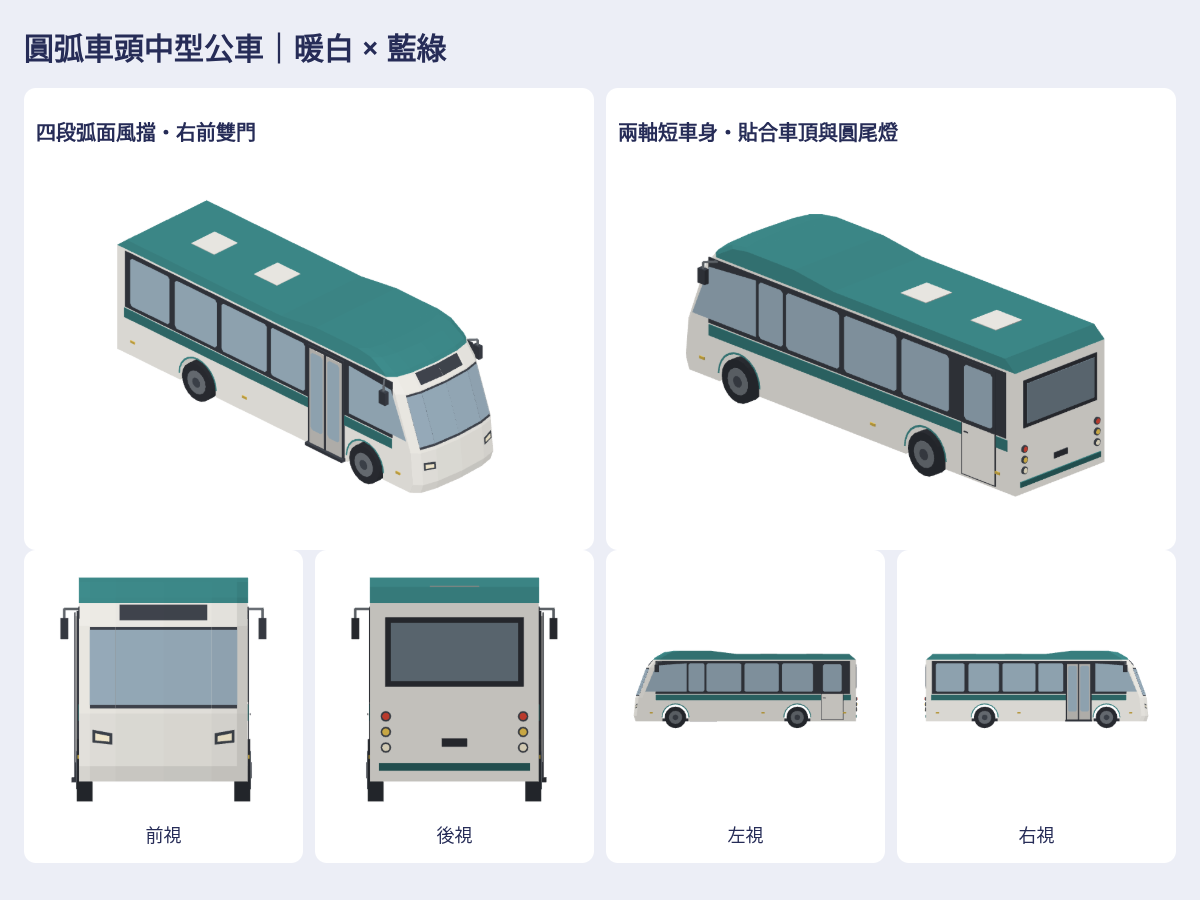
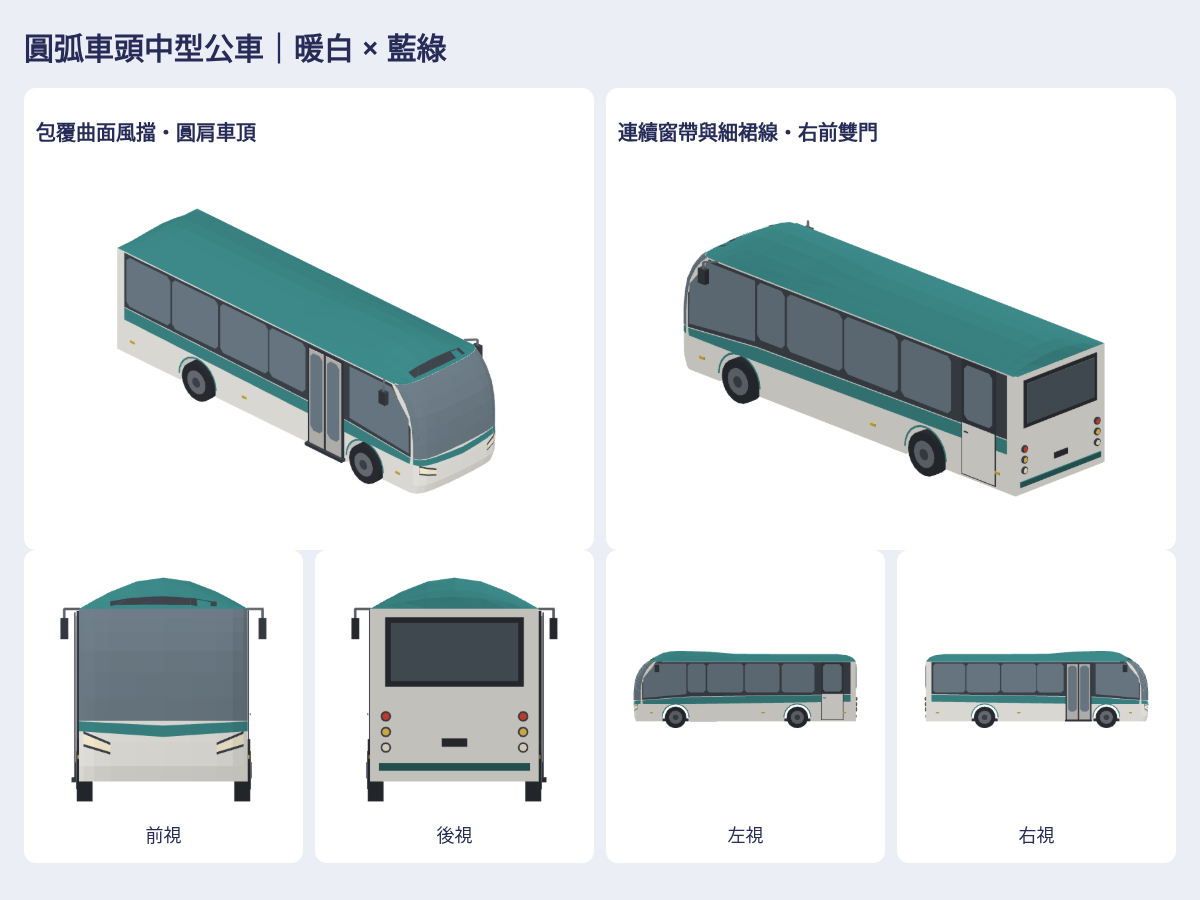
Refine midibus roof and wraparound glazing for a flowing silhouette
Round the crown shoulders, curve the screen in height and plan, slim the window ribbon and swept lights, and keep same-angle native previews for comparison. Verify backing and outward ribbon faces; preserve all four comparison models and traffic rules.

Agent: Codex

diff --git a/Sources/GamePresentation/Map3DMidiBus.swift b/Sources/GamePresentation/Map3DMidiBus.swift
@@ -9,6 +9,7 @@ public enum Map3DMidiBus {
     public static let height: Float = 3.16
     public static let bodyColor = Map3DPalette.shopAwnings[3]
     public static let accentColor = Map3DPalette.shopAwnings[0]
+    public static let windowColor = Map3DColor.shaded(Map3DPalette.glazing,0.72)
     public static func model() -> Map3DModelPack.Model {
         var b=StationKitBuilder();b.midiBus()
         return .flat(named:modelName,from:b.mesh)
@@ -28,18 +29,18 @@ extension StationKitBuilder {
             }
             contour.append(Map3DPoint(axle+0.53,0.28,0))
         }
-        let front: [(Float,Float)]=[(4.20,0.28),(4.28,0.50),(4.21,1.24),(3.75,2.48),(3.486,2.80),(3.42,2.88),(3.04,3.10),(2.65,3.16)]
-        contour += front.prefix(5).map { Map3DPoint($0.0,$0.1,0) }
-        contour.append(Map3DPoint(-4.52,2.80,0))
+        // Several short profile segments turn the upright lower screen
+        // progressively into the roof. The old single rake looked boxy.
+        let front: [(Float,Float)]=[(4.20,0.28),(4.28,0.50),(4.29,0.84),(4.28,1.14),(4.28,1.48),(4.25,1.82),(4.18,2.12),(4.04,2.39),(3.87,2.60),(3.72,2.72)]
+        contour += front.map { Map3DPoint($0.0,$0.1,0) }
+        contour.append(Map3DPoint(-4.52,2.72,0))
         shuttleShell(contour,halfWidth:1.19,color:white)
-        // Closed faceted nose: the central bow projects 29 cm beyond the
-        // side contour. Seven sections round the corners in plan as well
-        // as in profile, instead of merely painting a square bus front.
-        let sections: [(Float,Float)]=[(-1.19,0),(-1.04,0.16),(-0.68,0.25),(0,0.29),(0.68,0.25),(1.04,0.16),(1.19,0)]
+        // A continuous bowed nose and ten plan facets soften the corners.
+        let sections: [(Float,Float)]=[(-1.19,0),(-1.13,0.12),(-0.98,0.21),(-0.75,0.25),(-0.38,0.273),(0,0.28),(0.38,0.273),(0.75,0.25),(0.98,0.21),(1.13,0.12),(1.19,0)]
         for i in 0..<front.count-1 { for j in 0..<sections.count-1 {
             let a=front[i],b=front[i+1],c=sections[j],d=sections[j+1]
             let n=Map3DPoint(b.1-a.1,a.0-b.0,0)
-            shuttlePanel([Map3DPoint(a.0+c.1,a.1,c.0),Map3DPoint(a.0+d.1,a.1,d.0),Map3DPoint(b.0+d.1,b.1,d.0),Map3DPoint(b.0+c.1,b.1,c.0)],normal:n,color:i>=4 ? teal : white)
+            shuttlePanel([Map3DPoint(a.0+c.1,a.1,c.0),Map3DPoint(a.0+d.1,a.1,d.0),Map3DPoint(b.0+d.1,b.1,d.0),Map3DPoint(b.0+c.1,b.1,c.0)],normal:n,color:white)
         } }
         for k in [0,front.count-1] { let p=front[k]
             for j in 0..<sections.count-1 { let a=sections[j],b=sections[j+1]
@@ -47,11 +48,29 @@ extension StationKitBuilder {
                 if a.1>0 { cap.append(Map3DPoint(p.0+a.1,p.1,a.0)) }
                 if b.1>0 { cap.append(Map3DPoint(p.0+b.1,p.1,b.0)) }
                 cap.append(Map3DPoint(p.0,p.1,b.0))
-                shuttlePanel(cap,normal:Map3DPoint(0,k==0 ? -1 : 1,0),color:k==0 ? white : teal)
+                shuttlePanel(cap,normal:Map3DPoint(0,k==0 ? -1 : 1,0),color:white)
             }
         }
-        // Raised forehead is an integral closed roof, not a floating box.
-        shuttleShell([Map3DPoint(-4.52,2.80,0),Map3DPoint(3.486,2.80,0),Map3DPoint(3.42,2.88,0),Map3DPoint(3.04,3.10,0),Map3DPoint(2.65,3.16,0),Map3DPoint(1.40,3.16,0),Map3DPoint(0.35,3.03,0),Map3DPoint(-4.24,3.03,0)],halfWidth:1.194,color:teal)
+        // A closed longitudinal loft with a rounded transverse shoulder.
+        // Side edges meet the body at 2.72m; there is no full-width flat
+        // roof slab, and no overlapping differently coloured top faces.
+        let roof: [(Float,Float)]=[(-4.52,2.72),(-4.38,2.89),(-4.12,2.99),(-3.70,3.03),(-1.0,3.03),(0.45,3.04),(1.40,3.13),(2.42,3.16),(2.80,3.14),(3.12,3.07),(3.40,2.92),(3.72,2.72)]
+        func roofNode(_ row: Int,_ column: Int) -> Map3DPoint {
+            let p=roof[row],s=sections[column],u=abs(s.0)/1.19
+            let bow=max(0,min(1,(p.0-0.45)/1.95))
+            return Map3DPoint(p.0+s.1*bow,2.72+(p.1-2.72)*cosf(u*Float.pi/2),s.0)
+        }
+        for i in 0..<roof.count-1 { for j in 0..<sections.count-1 {
+            shuttlePanel([roofNode(i,j),roofNode(i+1,j),roofNode(i+1,j+1),roofNode(i,j+1)],normal:Map3DPoint(0,1,0),color:teal)
+        } }
+        let floor=[Map3DPoint(-4.52,2.72,-1.19),Map3DPoint(-4.52,2.72,1.19)]+sections.reversed().map { Map3DPoint(3.72+$0.1,2.72,$0.0) }
+        // The bottom has a convex bowed front and is hidden inside the
+        // body, nevertheless it is capped for the underside view.
+        shuttlePanel(floor,normal:Map3DPoint(0,-1,0),color:teal)
+        func window(_ x: Float,_ y: Float,_ z: Float,_ width: Float,_ height: Float) -> [Map3DPoint] {
+            let r: Float=0.09,a=x-width/2,b=x+width/2
+            return [Map3DPoint(a+r,y,z),Map3DPoint(b-r,y,z),Map3DPoint(b,y+r,z),Map3DPoint(b,y+height-r,z),Map3DPoint(b-r,y+height,z),Map3DPoint(a+r,y+height,z),Map3DPoint(a,y+height-r,z),Map3DPoint(a,y+r,z)]
+        }
         box(-0.10,0.28,0,8.18,1.68,0.12,trim)
         for axle: Float in [-2.12,2.86] { for side: Float in [-1,1] {
             civicTube(Map3DPoint(axle,0.44,side*1.00),Map3DPoint(axle,0.44,side*1.225),radius:0.44,color:Map3DStreetModel.tyre,sides:20)
@@ -62,14 +81,18 @@ extension StationKitBuilder {
             }
         } }
         for side: Float in [-1,1] {
-            box(-0.30,1.40,side*1.195,7.95,0.018,1.35,trim)
-            box(-0.32,1.14,side*1.195,7.98,0.018,0.23,teal)
-            let windows: [(Float,Float)]=side>0 ? [(-3.53,1.17),(-2.16,1.25),(-0.72,1.35),(0.58,1.02)] : [(-2.13,1.27),(-0.66,1.40),(0.88,1.42),(2.00,0.65)]
-            for (x,w) in windows { shuttleSideWindow(x,1.49,side*1.212,width:w,height:1.16) }
-            // Front side pane follows the actual raked roof boundary.
-            shuttlePanel([Map3DPoint(2.40,1.49,side*1.212),Map3DPoint(4.10,1.49,side*1.212),Map3DPoint(3.65,2.56,side*1.212),Map3DPoint(2.40,2.65,side*1.212)],normal:Map3DPoint(0,0,side),color:Self.glass)
-            // Solid backing already extends to x=4.117 at y=1.49, but
-            // the upper corner is inset from the front contour as well.
+            // The dark ribbon reaches the nose; slimmer pillars and a
+            // descending waist line avoid the old row of square boxes.
+            let n=Map3DPoint(0,0,side),z=side*1.203
+            // Split at the waist kink: these are convex patches. Using
+            // one concave fan reversed the ribbon and exposed white gaps.
+            shuttlePanel([Map3DPoint(-4.30,1.39,z),Map3DPoint(2.38,1.29,z),Map3DPoint(2.38,2.70,z),Map3DPoint(-4.30,2.70,z)],normal:n,color:trim)
+            shuttlePanel([Map3DPoint(2.38,1.29,z),Map3DPoint(4.23,1.15,z),Map3DPoint(4.23,1.84,z),Map3DPoint(3.67,2.70,z),Map3DPoint(2.38,2.70,z)],normal:n,color:trim)
+            shuttlePanel([Map3DPoint(-4.30,1.08,z),Map3DPoint(2.38,0.98,z),Map3DPoint(2.38,1.27,z),Map3DPoint(-4.30,1.37,z)],normal:n,color:teal)
+            shuttlePanel([Map3DPoint(2.38,0.98,z),Map3DPoint(4.20,0.98,z),Map3DPoint(4.23,1.13,z),Map3DPoint(2.38,1.27,z)],normal:n,color:teal)
+            let windows: [(Float,Float)]=side>0 ? [(-3.57,1.31),(-2.18,1.37),(-0.72,1.43),(0.57,1.08)] : [(-2.15,1.34),(-0.68,1.43),(0.83,1.48),(2.00,0.74)]
+            for (x,w) in windows { shuttlePanel(window(x,1.46,side*1.213,w,1.18),normal:n,color:Map3DMidiBus.windowColor) }
+            shuttlePanel([Map3DPoint(2.42,1.39,side*1.213),Map3DPoint(4.19,1.23,side*1.213),Map3DPoint(4.18,2.05,side*1.213),Map3DPoint(3.68,2.64,side*1.213),Map3DPoint(2.42,2.64,side*1.213)],normal:n,color:Map3DMidiBus.windowColor)
             for x: Float in [-4.05,-0.72,3.85] { let first=mesh.vertices.count
                 box(x,0.60,side*1.204,0.13,0.02,0.055,Map3DPalette.platformEdge);mesh.makeGlowing(from:first)
             }
@@ -81,7 +104,7 @@ extension StationKitBuilder {
         box(1.72,0.29,1.207,1.06,0.04,2.40,trim)
         for x: Float in [1.47,1.97] {
             box(x,0.35,1.231,0.45,0.018,2.27,white)
-            shuttleSideWindow(x,0.68,1.247,width:0.36,height:1.87)
+            shuttlePanel(window(x,0.68,1.247,0.36,1.87),normal:Map3DPoint(0,0,1),color:Map3DMidiBus.windowColor)
         }
         box(1.72,0.27,1.22,1.10,0.16,0.07,trim)
         box(1.72,0.29,1.252,0.025,0.018,2.38,trim)
@@ -89,44 +112,81 @@ extension StationKitBuilder {
         // hatch: body-coloured lower half, fine seam, small recessed grip.
         box(-3.55,0.33,-1.202,0.91,0.018,2.37,trim)
         shuttlePanel([Map3DPoint(-3.985,0.35,-1.215),Map3DPoint(-3.115,0.35,-1.215),Map3DPoint(-3.115,1.40,-1.215),Map3DPoint(-3.985,1.40,-1.215)],normal:Map3DPoint(0,0,-1),color:white)
-        shuttleSideWindow(-3.55,1.49,-1.219,width:0.76,height:1.12)
+        shuttlePanel(window(-3.55,1.49,-1.219,0.76,1.12),normal:Map3DPoint(0,0,-1),color:Map3DMidiBus.windowColor)
         box(-3.23,1.22,-1.225,0.11,0.014,0.025,trim)
-        // Curved panoramic screen: four independently backed plan facets.
-        func frontX(_ y: Float) -> Float { 4.21-(y-1.24)*0.46/1.24 }
-        for j in 1..<sections.count-2 { let a=sections[j],b=sections[j+1]
-            let n=Map3DPoint(1,0.46/1.24,-(b.1-a.1)/(b.0-a.0)).normalized!
-            func pane(_ low: Float,_ high: Float,_ offset: Float) -> [Map3DPoint] {
-                [Map3DPoint(frontX(low)+a.1,low,a.0)+n*offset,Map3DPoint(frontX(low)+b.1,low,b.0)+n*offset,Map3DPoint(frontX(high)+b.1,high,b.0)+n*offset,Map3DPoint(frontX(high)+a.1,high,a.0)+n*offset]
+        // Glazing follows every actual nose facet in BOTH dimensions.
+        // Shared boundaries use the same x-offset (rather than divergent
+        // per-pane normals) so adjacent panes cannot crack or flicker.
+        for i in 3..<front.count-1 { for j in 0..<sections.count-1 {
+            let a=front[i],b=front[i+1],c=sections[j],d=sections[j+1]
+            let n=Map3DPoint(1,(a.0-b.0)/(b.1-a.1),-(d.1-c.1)/(d.0-c.0)).normalized!
+            func pane(_ offset: Float) -> [Map3DPoint] {
+                [Map3DPoint(a.0+c.1+offset,a.1,c.0),Map3DPoint(a.0+d.1+offset,a.1,d.0),Map3DPoint(b.0+d.1+offset,b.1,d.0),Map3DPoint(b.0+c.1+offset,b.1,c.0)]
             }
-            shuttlePanel(pane(1.31,2.46,0.009),normal:n,color:trim)
-            shuttlePanel(pane(1.36,2.42,0.015),normal:n,color:Self.glass)
-        }
-        // Separate destination brow follows the next genuine body slope.
-        for side: Float in [-1,1] {
-            let n=Map3DPoint(1,0.33/0.40,side*0.04/0.68).normalized!
-            func brow(_ y: Float,_ z: Float) -> Map3DPoint { Map3DPoint(3.75-(y-2.48)*0.33/0.40+0.29-abs(z)*0.04/0.68,y,z)+n*0.012 }
-            shuttlePanel([brow(2.55,0),brow(2.55,side*0.62),brow(2.77,side*0.62),brow(2.77,0)],normal:n,color:trim)
-        }
-        for side: Float in [-1,1] {
-            // Small swept lamps, mounted on a real lower-front facet.
-            let n=Map3DPoint(1,0.07/0.74,side*0.25).normalized!
-            func lamp(_ y: Float,_ z: Float) -> Map3DPoint {
-                Map3DPoint(4.28-(y-0.50)*0.07/0.74+0.25-(abs(z)-0.68)*0.25,y,z)+n*0.012
+            shuttlePanel(pane(0.009),normal:n,color:trim)
+            shuttlePanel(pane(0.015),normal:n,color:Map3DMidiBus.windowColor)
+        } }
+        // Destination brow is cut from the actual planar roof triangles.
+        // Bilinear interpolation across a non-planar quad can bury a sign.
+        func clipped(_ polygon: [(Map3DPoint,Float)],at limit: Float,above: Bool) -> [(Map3DPoint,Float)] {
+            var result=[(Map3DPoint,Float)]()
+            for i in polygon.indices {
+                let a=polygon[i],b=polygon[(i+1)%polygon.count]
+                let ai=above ? a.1>=limit : a.1<=limit,bi=above ? b.1>=limit : b.1<=limit
+                if ai { result.append(a) }
+                if ai != bi { let t=(limit-a.1)/(b.1-a.1);result.append((a.0*(1-t)+b.0*t,limit)) }
             }
-            shuttlePanel([lamp(0.80,side*0.72),lamp(0.83,side*1.00),lamp(1.01,side*1.00),lamp(0.96,side*0.72)],normal:n,color:trim)
-            shuttlePanel([lamp(0.84,side*0.76)+n*0.006,lamp(0.86,side*0.96)+n*0.006,lamp(0.96,side*0.96)+n*0.006,lamp(0.92,side*0.76)+n*0.006],normal:n,color:Map3DStreetModel.headlamp,glows:true)
+            return result
         }
+        for j in 3..<7 {
+            let a=roofNode(10,j),b=roofNode(11,j),c=roofNode(11,j+1),d=roofNode(10,j+1)
+            let triangles: [[(Map3DPoint,Float)]]=[[(a,0),(b,1),(c,1)],[(a,0),(c,1),(d,0)]]
+            for triangle in triangles {
+                var n=(triangle[1].0-triangle[0].0).cross(triangle[2].0-triangle[0].0).normalized!
+                if n.y<0 { n=n * -1 }
+                let patch=clipped(clipped(triangle,at:0.17,above:true),at:0.76,above:false)
+                shuttlePanel(patch.map { $0.0+n*0.014 },normal:n,color:trim)
+            }
+        }
+        func noseX(_ y: Float) -> Float {
+            for i in 0..<front.count-1 where y<=front[i+1].1 {
+                let a=front[i],b=front[i+1];return a.0+(b.0-a.0)*(y-a.1)/(b.1-a.1)
+            }
+            return front.last!.0
+        }
+        func bow(_ z: Float) -> Float {
+            for i in 0..<sections.count-1 where z<=sections[i+1].0 {
+                let a=sections[i],b=sections[i+1];return a.1+(b.1-a.1)*(z-a.0)/(b.0-a.0)
+            }
+            return 0
+        }
+        func onNose(_ y: Float,_ z: Float,_ offset: Float) -> Map3DPoint { Map3DPoint(noseX(y)+bow(z)+offset,y,z) }
+        // The painted apron rises gently towards both corners.
+        for j in 0..<sections.count-1 { let a=sections[j].0,b=sections[j+1].0
+            func low(_ z: Float) -> Float { 0.91+abs(z)/1.19*0.08 }
+            func high(_ z: Float) -> Float { 1.07+abs(z)/1.19*0.06 }
+            shuttlePanel([onNose(low(a),a,0.009),onNose(low(b),b,0.009),onNose(high(b),b,0.009),onNose(high(a),a,0.009)],normal:Map3DPoint(1,0,0),color:teal)
+        }
+        // Swept slim lamps wrap two real front-corner facets, rather than
+        // floating a broad rectangular headlamp across the curved nose.
+        for side: Float in [-1,1] { for j in 7..<9 {
+            let a=sections[j].0*side,b=sections[j+1].0*side
+            func low(_ z: Float) -> Float { 0.66+(abs(z)-0.75)*0.30 }
+            func high(_ z: Float) -> Float { 0.83+(abs(z)-0.75)*0.42 }
+            let n=Map3DPoint(1,0,side*0.3)
+            shuttlePanel([onNose(low(a),a,0.012),onNose(low(b),b,0.012),onNose(high(b),b,0.012),onNose(high(a),a,0.012)],normal:n,color:trim)
+            shuttlePanel([onNose(low(a)+0.035,a,0.019),onNose(low(b)+0.035,b,0.019),onNose(high(b)-0.035,b,0.019),onNose(high(a)-0.035,a,0.019)],normal:n,color:Map3DStreetModel.headlamp,glows:true)
+        } }
         // Rear window is backed by the flat rear shell. Clean painted rear
         // cover avoids the heavy grey luggage lids of the earlier coach.
         box(-4.527,1.62,0,0.014,1.96,0.98,trim)
-        box(-4.540,1.70,0,0.012,1.80,0.82,Self.glass)
+        box(-4.540,1.70,0,0.012,1.80,0.82,Map3DMidiBus.windowColor)
         box(-4.535,0.43,0,0.03,2.14,0.11,teal)
         box(-4.548,0.77,0,0.018,0.36,0.12,trim)
         for side: Float in [-1,1] { for (y,c): (Float,UInt32) in [(0.76,Map3DStreetModel.headlamp),(0.98,Map3DPalette.platformEdge),(1.20,Map3DStreetModel.tailLamp)] {
             civicTube(Map3DPoint(-4.525,y,side*0.97),Map3DPoint(-4.565,y,side*0.97),radius:0.075,color:trim,sides:12)
             let first=mesh.vertices.count;civicTube(Map3DPoint(-4.565,y,side*0.97),Map3DPoint(-4.575,y,side*0.97),radius:0.052,color:c,sides:12);mesh.makeGlowing(from:first)
         } }
-        // Shallow roof service hatches contact the real rear roof at 3.03m.
-        for x: Float in [-2.82,-0.95] { box(x,3.03,0,0.68,0.70,0.015,white) }
+
     }
 }

diff --git a/Tests/GamePresentationTests/Map3DMidiBusTests.swift b/Tests/GamePresentationTests/Map3DMidiBusTests.swift
@@ -32,32 +32,59 @@ final class Map3DMidiBusTests: XCTestCase {
     }
     func testCurvedWindscreenAndSideWindowsHaveSolidBacking() {
         let m=Map3DMidiBus.model();var front=0,side=0
-        var normals=Set<Int>()
+        var normals=Set<Int>(),slopes=[Float]()
         for i in stride(from:0,to:m.vertices.count,by:3) {
-            let t=Array(m.vertices[i..<i+3]);guard t.allSatisfy({ $0.color==Map3DPalette.glazing }) else { continue }
+            let t=Array(m.vertices[i..<i+3]);guard t.allSatisfy({ $0.color==Map3DMidiBus.windowColor }) else { continue }
             let n=Map3DPoint(t[0].nx,t[0].ny,t[0].nz)
-            guard n.x>0.9 || abs(n.y)>0.9 else { continue }
+            guard n.x>0.25 || abs(n.y)>0.9 else { continue }
             let c=t.reduce(Map3DPoint.zero) { $0+Map3DPoint($1.x,$1.y,$1.z)*(1/3) }
             XCTAssertLessThan(ray(from:c+n*0.001,direction:n * -1,vertices:m.vertices,skipGlass:true),0.03,"Floating pane at \(c)")
-            if n.x>0.9 { front+=1;normals.insert(Int((n.y*1000).rounded()));XCTAssertGreaterThan(n.z,0.3) } else { side+=1 }
+            if n.x>0.25 { front+=1;normals.insert(Int((n.y*1000).rounded()));slopes.append(n.z) } else { side+=1 }
         }
-        XCTAssertEqual(front,8,"Four real plan facets, two triangles each")
-        XCTAssertEqual(normals.count,4,"A bowed windscreen must not collapse to one flat face")
+        XCTAssertGreaterThanOrEqual(front,100,"Panoramic glass follows multiple plan and height sections")
+        XCTAssertGreaterThanOrEqual(normals.count,6,"The windscreen wraps around both front corners")
+        XCTAssertLessThan(slopes.min() ?? 1,0.15,"Lower screen stays upright")
+        XCTAssertGreaterThan(slopes.max() ?? 0,0.4,"Upper screen curves progressively into the roof")
         XCTAssertGreaterThan(side,50)
     }
     func testRightFrontPassengerDoorAndLeftRearEmergencyHatchStayAsymmetric() {
         let m=Map3DMidiBus.model()
-        let lowGlass=m.vertices.filter { $0.color==Map3DPalette.glazing && $0.z<1.4 }
+        let lowGlass=m.vertices.filter { $0.color==Map3DMidiBus.windowColor && $0.z<1.4 }
         XCTAssertTrue(lowGlass.contains { $0.x>1.2 && $0.x<2.3 && $0.y < -1.24 })
         XCTAssertFalse(lowGlass.contains { $0.y>1.24 },"The left-rear hatch is not a passenger boarding door")
         let emergency=m.vertices.filter { $0.x < -3.10 && $0.x > -4.0 && $0.y>1.21 && $0.z<1.4 }
         XCTAssertTrue(emergency.contains { $0.color==Map3DMidiBus.bodyColor && $0.ny>0.9 })
         XCTAssertFalse(emergency.contains { $0.color==Map3DPalette.tankStand },"No thick grey luggage cover")
         XCTAssertLessThanOrEqual(emergency.map(\.y).max() ?? 0,1.233)
-        // The forehead is continuous with the body and both shallow roof
-        // hatches touch a supporting roof rather than hovering above it.
-        for x: Float in [-2.82,-0.95] {
-            XCTAssertEqual(ray(from:Map3DPoint(x,0,3.10),direction:Map3DPoint(0,0,-1),vertices:m.vertices),0.055,accuracy:0.001)
+    }
+    func testRoofShouldersAreRoundedAndForeheadJoinsTheBody() {
+        let m=Map3DMidiBus.model()
+        func roofHeight(_ x: Float,_ y: Float) -> Float {
+            3.50-ray(from:Map3DPoint(x,y,3.50),direction:Map3DPoint(0,0,-1),vertices:m.vertices)
+        }
+        let centre=roofHeight(-1,0)
+        for y: Float in [-0.98,0.98] {
+            let shoulder=roofHeight(-1,y)
+            XCTAssertGreaterThan(centre-shoulder,0.16,"A full-width flat roof loses the reference's rounded shoulder")
+            XCTAssertLessThan(centre-shoulder,0.30)
+            XCTAssertGreaterThan(shoulder,2.72,"The crown stays above its supported body edge")
+        }
+        XCTAssertGreaterThan(roofHeight(2.70,0)-centre,0.08,"The raised forehead must flow above the rear roof")
+        // Cross the crown/body join inwards from each side: the white
+        // body's side remains behind the roof rather than leaving a hole.
+        for y: Float in [-1,1] {
+            XCTAssertLessThan(ray(from:Map3DPoint(0,y*1.24,2.70),direction:Map3DPoint(0,-y,0),vertices:m.vertices),0.051)
+        }
+    }
+    func testWindowRibbonHasOutwardFacesBetweenPanes() {
+        let m=Map3DMidiBus.model()
+        for side: Float in [-1,1] {
+            var ribbon=[Map3DVertex]()
+            for i in stride(from:0,to:m.vertices.count,by:3) {
+                let t=Array(m.vertices[i..<i+3])
+                if t.allSatisfy({ $0.color==Map3DStreetModel.trim && $0.ny*side>0.9 }) { ribbon+=t }
+            }
+            XCTAssertEqual(ray(from:Map3DPoint(-2.89,side*1.25,2.10),direction:Map3DPoint(0,-side,0),vertices:ribbon),0.047,accuracy:0.001,"A reversed dark ribbon disappears and leaves white window frames")
         }
     }
     func testStandardAndBundledCityBusPacksKeepAllFiveVehicles() throws {
@@ -76,7 +103,7 @@ final class Map3DMidiBusTests: XCTestCase {
     private func ray(from origin: Map3DPoint,direction: Map3DPoint,vertices: [Map3DVertex],skipGlass: Bool = false) -> Float {
         var result=Float.infinity
         for i in stride(from:0,to:vertices.count,by:3) {
-            if skipGlass && vertices[i].color==Map3DPalette.glazing { continue }
+            if skipGlass && vertices[i].color==Map3DMidiBus.windowColor { continue }
             let p=vertices[i..<i+3].map { Map3DPoint($0.x,$0.y,$0.z) },e=p[1]-p[0],f=p[2]-p[0],h=direction.cross(f),det=e.dot(h)
             if abs(det)<0.000001 { continue }
             let s=origin-p[0],u=s.dot(h)/det,q=s.cross(e),v=direction.dot(q)/det,d=f.dot(q)/det

diff --git a/tools/midi-bus/viewer.html b/tools/midi-bus/viewer.html
@@ -2,7 +2,7 @@
 <style>
 *{box-sizing:border-box}body{margin:0;background:#eceef6;color:#262c57;font:15px system-ui}header{padding:18px 24px;background:white}h1{font-size:24px;margin:0 0 8px}p{line-height:1.6;margin:8px 0}button,input,select,a{font:inherit}button,select,input{border:1px solid #adb3c7;border-radius:8px;padding:8px;background:white;color:#262c57}button,a{cursor:pointer}button:hover{background:#e2f1ed}main{display:grid;grid-template-columns:300px minmax(0,1fr);gap:16px;padding:16px}aside,section{background:white;border-radius:14px;padding:16px;min-width:0}aside{max-height:calc(100vh - 155px);overflow:auto;position:sticky;top:12px}#search,#category,#system{width:100%;margin-bottom:8px}#list{display:grid;grid-template-columns:repeat(2,1fr);gap:6px}.tile{padding:6px;font-size:12px;overflow-wrap:anywhere}.tile img{width:100%;height:85px;object-fit:contain}.tile[aria-pressed=true]{outline:2px solid #0d766a}#stage{background:#dce9da;overflow:hidden;border-radius:10px}canvas{width:100%;height:auto;display:block;touch-action:none}.row{display:flex;flex-wrap:wrap;gap:6px;margin:10px 0}#name{font-size:23px;margin:0}#details{overflow-wrap:anywhere}a{color:#0d766a}#zoom{width:150px;padding:0}#status{min-height:24px}.tag{background:#e2f1ed;padding:4px 8px;border-radius:6px}#ports{font-size:13px}@media(max-width:720px){main{grid-template-columns:1fr;padding:8px}aside{position:static;max-height:320px}#list{grid-template-columns:repeat(4,1fr)}.tile img{height:60px}header{padding:14px}h1{font-size:21px}}
 </style>
-<header><h1>圓弧車頭中型公車</h1><p id="count"></p><p>暖白與藍綠霧面配色、圓弧風擋與右前雙門；可切換高頂小巴、低地板、三軸遊覽車與既有大型公車對照。</p></header>
+<header><h1>圓弧車頭中型公車</h1><p id="count"></p><p>暖白與藍綠霧面配色、包覆曲面風擋、圓肩車頂與右前雙門；可切換高頂小巴、低地板、三軸遊覽車與既有大型公車對照。</p></header>
 <main><aside><input id="search" aria-label="搜尋素材" placeholder="搜尋素材或 ID"><select id="category" aria-label="素材分類"><option value="all">全部素材</option><option value="vehicle">新增圓弧中型公車</option><option value="reference">已完成車型對照</option></select><select id="system" aria-label="路網" hidden><option value="all">全部路網</option></select><div id="list"></div></aside>
 <section><h2 id="name"></h2><p id="details"></p><div id="stage"><canvas id="canvas" width="900" height="620" aria-label="可旋轉的原生 3D 模型"></canvas></div><div class="row" id="views"></div><div class="row"><label>縮放 <input id="zoom" type="range" min="0.65" max="2" value="1" step="0.05"></label><select id="background" aria-label="預覽底色"><option value="#dce9da">地圖淺底</option><option value="#263c40">地圖深底</option><option value="#ffffff">面板淺底</option><option value="#262c57">面板深底</option></select><button id="png">下載目前 PNG</button><a id="glb" download>下載 GLB</a><a id="native" download>下載原生模型</a></div><div id="ports"></div><p id="status" role="status"></p><p>拖曳旋轉。模型為靜態素材。原生公尺尺寸，輪底貼地；沿用街景車流顯示。</p></section></main>
 <script type="module">

diff --git a/tools/midi-bus/export.swift b/tools/midi-bus/export.swift
@@ -10,7 +10,7 @@ var records: [[String:Any]]=[]
     // Keep the previous batch's comparison envelopes byte-for-byte.
     let isNew=model.name==Map3DMidiBus.modelName
     let fidelity=model.name==Map3DCoachBus.modelName ? "owner-reference-recomposed" : info["fidelity"] ?? "illustrative"
-    let provenance: [String:Any]=["asset":["generator":isNew ? "Map3DMidiBus" : "Map3DCoachBus","version":isNew ? "1.0" : "2.0"],"extras":["assetId":model.name,"recipeVersion":1,"source":"native-procedural","fidelity":fidelity,"coordinateSystem":"metres; +x front, +y left, +z up"]]
+    let provenance: [String:Any]=["asset":["generator":isNew ? "Map3DMidiBus" : "Map3DCoachBus","version":"2.0"],"extras":["assetId":model.name,"recipeVersion":isNew ? 2 : 1,"source":"native-procedural","fidelity":fidelity,"coordinateSystem":"metres; +x front, +y left, +z up"]]
     let text=try JSONSerialization.data(withJSONObject:provenance,options:[.sortedKeys])
     var data=Data("M3DM".utf8)
     func put16(_ n: UInt16) { data.append(UInt8(n&255));data.append(UInt8(n>>8)) }
@@ -39,7 +39,7 @@ try export(Map3DCoachBus.model(),info:["name":"暖白暖紅三軸遊覽車（已
 let root=URL(fileURLWithPath:FileManager.default.currentDirectoryPath)
 let original=try Map3DModelFile(decoding:Data(contentsOf:root.appendingPathComponent("RailwayGameApp/Resources/Models/city-bus.m3dmodel")),named:"city-bus")
 try export(Map3DCityBus.model(from:original),info:["name":"既有大型市區公車（對照）","category":"reference","fidelity":"existing-game-model"])
-let manifest: [String:Any]=["schema_version":1,"generator":"Map3DMidiBus","recipe_version":1,"model_count":records.count,"part_count":1,"comparison_count":4,"example_count":0,
+let manifest: [String:Any]=["schema_version":1,"generator":"Map3DMidiBus","recipe_version":2,"model_count":records.count,"part_count":1,"comparison_count":4,"example_count":0,
     "native_coordinates":"metres; +x front, +y left, +z up","gltf_coordinates":"metres; +x front, +y up, -z left",
     "directions":["top","bottom","left","right","front","back","isometric"],"models":records,
     "notes":"One new rounded midibus type, plus four existing bus comparisons; fixed teal/off-white livery, static native geometry. Street motion uses the existing traffic system."]

diff --git a/docs/art/midi-bus-2026-10-21/README.md b/docs/art/midi-bus-2026-10-21/README.md
@@ -2,15 +2,17 @@
 
 依作者4張綠白兩軸圓頭公車圖，保留短車身、大風擋、抬高車頂、右前雙門與左後高門的辨識點。改遊戲暖白／藍綠霧面頂點色，重新組合前臉弧面、窗片、鏡架、車頂與圓尾燈；左後門作緊急／設備門，非左側乘客上下車。沒有真實品牌或原始mesh／貼圖。
 
+依作者「不夠流線」回饋，本版收圓車頂肩線、讓風擋沿前角包覆並逐段彎入頂蓋、收細連續窗帶與上揚頭燈，移除平頂方蓋。私有成品保留同角度修整前後對照，色票／門／軸距／其餘四車與車流不變。
+
 ![實際原生模型總覽](overview.png)
 
-新增1款life-midiBus，2080三角形；原小巴／低地板／三軸遊覽車／既有大型只是4款對照，native與GLB皆與上一批ZIP逐位元相同。共5native／5GLB／35張上、下、左、右、前、後、立體透明PNG，另900px前後底、同尺度五車車隊、風格檢查與可旋轉viewer。車隊用原生頂點平移與單一相機，不用各自縮放的圖片冒充同尺度。
+新增1款life-midiBus，2627三角形；原小巴／低地板／三軸遊覽車／既有大型只是4款對照，native與GLB皆與上一批ZIP逐位元相同。共5native／5GLB／35張上、下、左、右、前、後、立體透明PNG，另900px前後底、同尺度五車車隊、風格檢查與可旋轉viewer。車隊用原生頂點平移與單一相機，不用各自縮放的圖片冒充同尺度。
 
-Map3DMidiBus.model()／Map3DStreetModel.midiBus追加到standard，App既有Map3DCityBus.pack也保留新型。約9.15m長、車身寬2.38m、含鏡2.91m、高3.16m，屬圖片推估造型尺寸，非品牌工程實測。輪底0，兩個真輪拱、封閉鼻殼、四段各有實體支持的風擋、相連鏡架與一體車頂；薄設備門保留車身原色與細接縫，不用厚灰箱蓋。
+Map3DMidiBus.model()／Map3DStreetModel.midiBus追加到standard，App既有Map3DCityBus.pack也保留新型。約9.15m長、車身寬2.38m、含鏡2.91m、高3.16m，屬圖片推估造型尺寸，非品牌工程實測。輪底0，兩個真輪拱、封閉鼻殼、沿平面與高度分段、各有實體支持的包覆風擋、相連鏡架與圓肩縱向曲面車頂；薄設備門保留車身原色與細接縫，不用厚灰箱蓋。
 
 原5%總公車池內分配30%小巴／35%低地板／20%遊覽車／10%中巴／5%原大型，前三款seed選型不變。總車量、密度、上限、道路資格與17m保守間距不增。這是街景車型，沒有新增GameCore購車、路線營運或存檔規則。
 
-VERIFIED（Linux／Swift6.4／Node／Chromium）：native所有position/color/glow讀回與法線容差、全量GLB重建／SHA、35PNG實際渲染與獨立RGBA解碼／alpha／像素數／不裁邊、viewer桌面與390px互動、對照車bytes不變；實際七向／底面／四底色／車隊已人工看過。最終本機53個相關XCTest與4個Node測試通過，warnings-as-errors乾淨。UNVERIFIED：真機Metal外觀／效能、車門輪子動畫與物理碰撞、原始圖逐像素相似度；CI以PR當時實際狀態為準。
+VERIFIED（Linux／Swift6.4／Node／Chromium）：native所有position/color/glow讀回與法線容差、全量GLB重建／SHA、35PNG實際渲染與獨立RGBA解碼／alpha／像素數／不裁邊、viewer桌面與390px互動、對照車bytes不變；實際七向／底面／四底色／車隊已人工看過。最終本機55個相關XCTest與4個Node測試通過，warnings-as-errors乾淨。UNVERIFIED：真機Metal外觀／效能、車門輪子動畫與物理碰撞、原始圖逐像素相似度；CI以PR當時實際狀態為準。
 
 本批初跑發現舊低地板測試的比例僅計3種bus，漏掉coach／midi；改成全isBus聚合與獨立道路seed，保留5%比例及無bus／有bus總車量相同的要求，並同步coach五型可達斷言。沒有改交通總量來遷就測試。
 

diff --git a/docs/art/VEHICLE_ASSET_HANDOFF_PROMPT.md b/docs/art/VEHICLE_ASSET_HANDOFF_PROMPT.md
@@ -24,7 +24,7 @@
 2. builder 內部是 +x 前／+y 上／+z 右；Model.flat(named:from:) 只轉一次成原生 +x 前／+y 左／+z 上，單位公尺，輪底 z=0。不要把 GLTF 的 Y-up 誤當原生軸。GLB 由既有封裝器轉成 +x 前／+y 上／-z 左。
 3. 車體、車頂、底盤、輪胎、鏡殼與支架是封閉幾何；法線有限、單位化、朝外，不靠關掉剔除掩飾反面。頂點用不透明色，燈可 glow。不要每台用隨機彩色 instance 染色。一般車型約 1,500–3,000 三角形；上限需看當下 native loader／renderer，別把 15,000 loader 上限當每台應耗光的預算。
 4. 輪拱是實際凹口，不是黑色貼片。shuttleShell 耳切可保留凹輪廓，不能用 triangle fan 填凹多邊形。輪胎用封閉 civicTube、輪子落地，檢查輪拱上緣有空隙且門／裙板不蓋住輪子。
-5. 曲面車頭要在俯視與側視都重組，風擋依真實的分段斜面／弧面拆片，沿該片法線微移。側窗、前窗、門玻璃背後要有車身或實體門板，不能跨過折線浮在空中。用射線測支持距離，再看前後左右／底面。
+5. 曲面車頭要在俯視與側視都重組，風擋依真實的分段斜面／弧面拆片，沿該片法線微移。側窗、前窗、門玻璃背後要有車身或實體門板，不能跨過折線浮在空中。屋頂quad可能非共面，目的地牌應從實際三角面裁片；bilinear插值可能讓牌埋進屋頂。有腰線折點的色帶拆成凸片，不能對凹多邊形直接fan，否則first-three normal可能反向。用射線測支持距離與面片朝外，再看前後左右／底面。
 6. 服務／行李艙門採車身同色、薄接縫、小把手。StationKitBuilder.box／Map3DMesh.addBox 會對側面陰影著色，白漆蓋板可能變厚灰箱；需維持原色時用 face／shuttlePanel 直接著色。沿用 coachLuggageDoor 的封閉薄殼與面漆做法，不要復活舊厚鋼框。面漆與背板至少相差約 2 mm，薄片間距太近會深度閃爍；門仍應貼車身，不能為消閃爍突出幾公分。
 7. 車頂與車身分段相接，不能兩個不同色的殼有整片同面頂板，否則出現斑駁破碎區塊。冷氣／通風設備有接觸支腳，支腳完整填滿頂面到設備的間隙；鏡殼由相連鏡臂接到車身，走廊／踏階也要有支持。
 8. 複用舊 helper 可以，但不要為新車修改舊車的形狀／色彩。保留前批模型的 position/color/glow triangle payload；若沿用相同 provenance envelope，native 與 GLB 整檔也應一致。對照車是舊成果，不計新增。
@@ -68,7 +68,7 @@
 | #941 | `codex/shuttle-bus-2026-10-21`；高頂短鼻小巴與 shuttleShell helper |
 | #942 | `codex/low-floor-bus-2026-10-21`；依 #941 的低地板公車 |
 | #945 | `codex/coach-bus-2026-10-21`；依 #942 的三軸遊覽車，含最新同色行李門；本批基底 `0cabb0690ba1ec848ebeb1899b11f3c6949c7eb4` |
-| 本批 | `codex/midi-bus-2026-10-21`；依 #945 的圓弧中巴，不取代前三台 |
+| 本批 | `codex/midi-bus-2026-10-21`；依 #945 的圓弧中巴，已按作者回饋改圓肩loft／包覆風擋／細連續窗帶，不取代前三台 |
 | 新原生配方 | `Sources/GamePresentation/Map3DMidiBus.swift`／`life-midiBus`，約9.15×2.38×3.16m；鏡寬2.91m；軸 x=-2.12/+2.86 |
 | 原生現況 | 五款 bus：shuttle30%、low-floor35%、coach20%、midi10%、原有大型5%，都在原5%總池內；前三款 seed 選型不變 |
 | 工具 | `tools/midi-bus/rebuild.sh /absolute/private/output`；1新＋4對照，5native／5GLB／35七向PNG |

diff --git a/tools/midi-bus/README.md b/tools/midi-bus/README.md
@@ -10,10 +10,12 @@ python3 -m http.server 8080 --directory /absolute/path/outside/public/checkout
 
 Open localhost:8080/index.html for filters/search, seven directions, orbit/zoom, backgrounds, PNG/native/GLB downloads. Reuses station-kit binary/GLB/renderer and shuttle/civic closed geometry, no new dependencies. [Complete copy-paste handoff prompt](../../docs/art/VEHICLE_ASSET_HANDOFF_PROMPT.md) and [skill](../../.claude/skills/midi-bus/SKILL.md).
 
-Metres, native +x front/+y left/+z up. About9.15m long,2.38m body width,2.91m including mirrors,3.16m high; wheel bottom0. Two real open arches, four backed windscreen facets, raised integral roof, right-front double passenger door, left-rear emergency/equipment hatch. Clean body-coloured covers and small seams; no thick grey luggage boxes. Actual source engineering dimensions/brand are not asserted. Matte opaque shopAwnings[3]/[0], native glow lamps, no logos or copied source mesh/textures.
+Metres, native +x front/+y left/+z up. About9.15m long,2.38m body width,2.91m including mirrors,3.16m high; wheel bottom0. Two real open arches, backed panoramic glazing curved in height and plan, a rounded-shoulder longitudinal roof loft, right-front double passenger door, left-rear emergency/equipment hatch. Clean body-coloured covers and small seams; no thick grey luggage boxes. Actual source engineering dimensions/brand are not asserted. Matte opaque shopAwnings[3]/[0], native glow lamps, no logos or copied source mesh/textures.
 
 Original5% bus pool becomes30% shuttle/35% low-floor/20% coach/10% midibus/5% old city. First three seed selections, density, cap, eligible roads and17m conservative spacing remain unchanged. No GameCore rules or save changes.
 
 5 native/5 GLB/35 seven-view RGBA PNGs; front/rear/underside, overview, direction/style/comparison/same-scale fleet sheets and interactive viewer. Verification covers native full vertex round-trip, full GLB reconstruction, hashes, PNG full decode/alpha/pixel counts, browser interactions, eight touched XCTest suites and Node packaging tests. Manually inspect actual sheets too. Device Metal/performance, wheel/door animation and vehicle collision physics remain unverified.
 
 Stacked on coach PR#945 while unmerged; it depends on#942 then#941. Verify current remote status before starting another task. Large outputs stay private in `Railway/game-art-previews/docs/art/midi-bus-2026-10-21/`.
+
+Streamline refinement: slimmer outward-facing window ribbons, swept headlamps and painted apron, an integrated destination brow clipped from actual planar roof triangles, and no square rooftop hatches. Optional `previews/streamline-before-hero.png` and `streamline-before-right.png` create a same-angle before/after sheet using previous native renders. These are previews, not new models.
